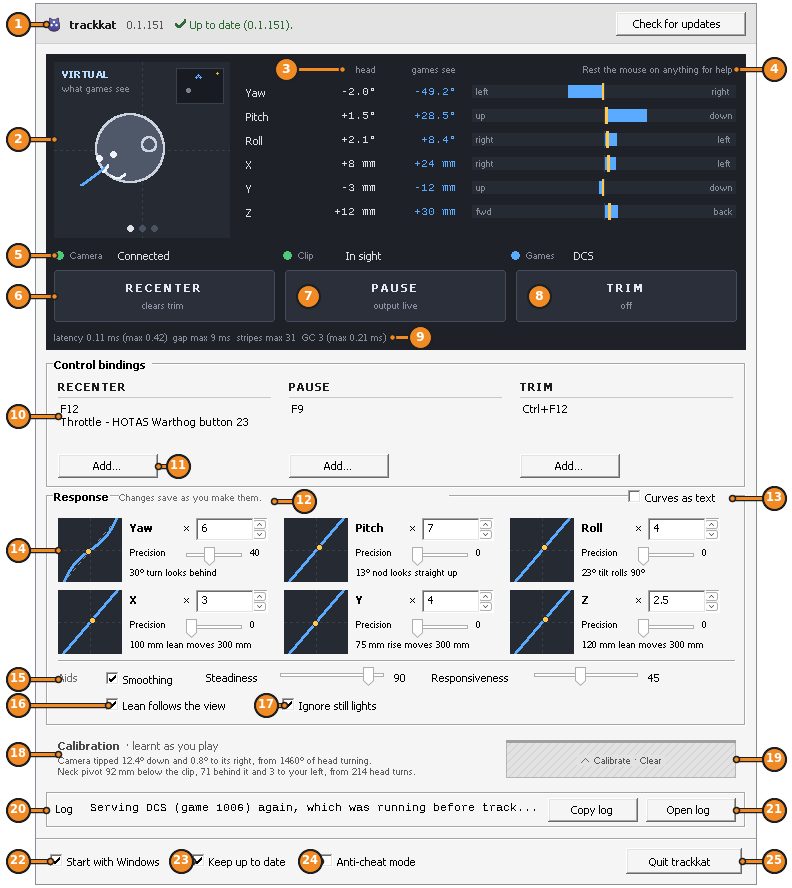
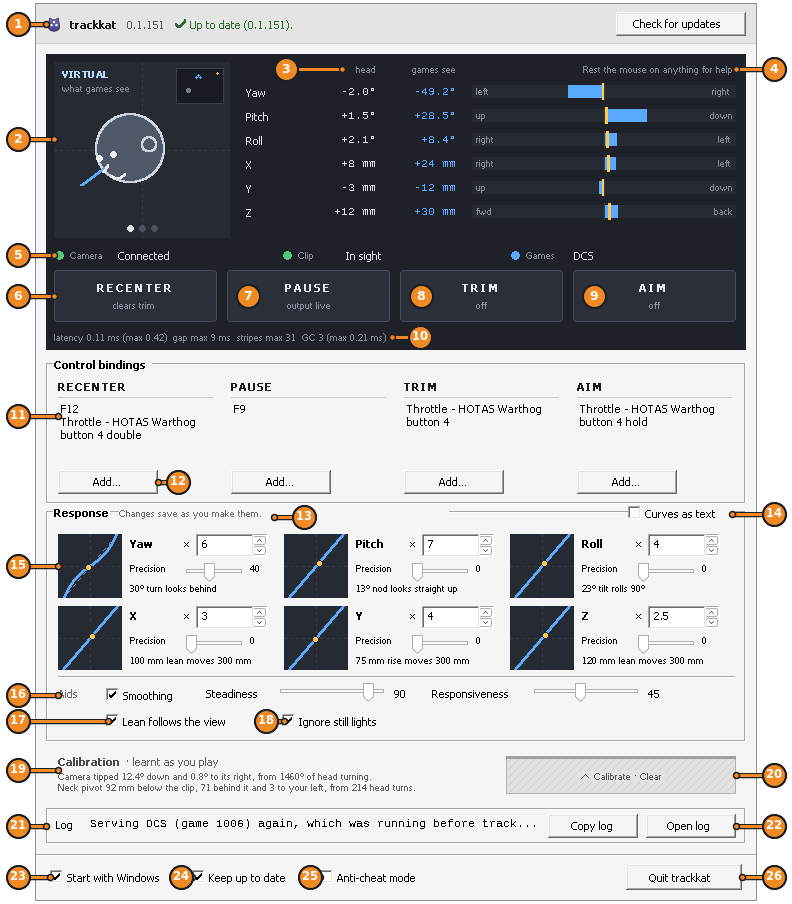
Document aiming, and one button doing several things

diff --git a/README.md b/README.md
@@ -55,35 +55,38 @@ tooltip saying what it does.
 3. Each axis: your head, what games see after the curves, and a bar.
 4. Rest the mouse on anything for help.
 5. Camera, clip and games (by name): green is good.
-6. **Recenter**: where you face now becomes straight ahead; clears trim.
+6. **Recenter**: where you face now becomes straight ahead; clears trim and ends aiming.
 7. **Pause**: games see your head held still until you press it again. Lit amber while paused.
 8. **Trim**: the view now, where it looks and where it has moved to, becomes forward, until you recenter. Lit blue while trimmed, with where.
-9. Latency and other figures, for bug reports.
-10. Keys and buttons for each switch above, one to a line; here a HOTAS button too. Click a list to edit it.
-11. **Add…**: press a key, joystick button, or middle or side mouse button to add it.
-12. Whether the last change was saved: settings are written to `trackkat.conf` as you change them, and apply at once.
-13. **Curves as text**, for curves of any shape.
-14. Response curves: a multiplier, a centre precision, and a plot with your head as a dot.
-15. Smoothing: steadiness against jitter, responsiveness against lag.
-16. **Lean follows the view**, or the screen.
-17. **Ignore still lights**: a lamp or a fire behind you doesn't stop trackkat finding the clip; see [still lights](docs/details.md#still-lights).
-18. What trackkat has learnt about your camera and neck.
-19. A cover: lift it for **Calibrate now** (after moving the camera, turn your head left and right for five seconds) and **Clear calibration** (start afresh).
-20. The log's latest line; **Copy log** for bug reports.
-21. **Open log**: the whole log, and trackkat's version, in a window of its own.
-22. **Start with Windows**, in the tray: the way to use anti-cheat mode without starting trackkat by hand.
-23. **Keep up to date**: an installed trackkat fetches new versions in the background.
-24. **Anti-cheat mode**, for games such as Arma Reforger that refuse trackkat's NPClient.
-25. **Quit trackkat**. Closing the window instead keeps trackkat running in the tray.
+9. **Aim**: the view turns gently from where it is, to lay a gunsight on something by head, until you press it again. Lit blue while aiming.
+10. Latency and other figures, for bug reports.
+11. Keys and buttons for each switch above, one to a line; here a HOTAS button that trims when pressed, aims while held and recenters when pressed twice. Click a list to edit it.
+12. **Add…**: press a key, joystick button, or middle or side mouse button to add it.
+13. Whether the last change was saved: settings are written to `trackkat.conf` as you change them, and apply at once.
+14. **Curves as text**, for curves of any shape.
+15. Response curves: a multiplier, a centre precision, and a plot with your head as a dot.
+16. Smoothing: steadiness against jitter, responsiveness against lag.
+17. **Lean follows the view**, or the screen.
+18. **Ignore still lights**: a lamp or a fire behind you doesn't stop trackkat finding the clip; see [still lights](docs/details.md#still-lights).
+19. What trackkat has learnt about your camera and neck.
+20. A cover: lift it for **Calibrate now** (after moving the camera, turn your head left and right for five seconds) and **Clear calibration** (start afresh).
+21. The log's latest line; **Copy log** for bug reports.
+22. **Open log**: the whole log, and trackkat's version, in a window of its own.
+23. **Start with Windows**, in the tray: the way to use anti-cheat mode without starting trackkat by hand.
+24. **Keep up to date**: an installed trackkat fetches new versions in the background.
+25. **Anti-cheat mode**, for games such as Arma Reforger that refuse trackkat's NPClient.
+26. **Quit trackkat**. Closing the window instead keeps trackkat running in the tray.
 
 ## Keys
 
 - **F12** recenters, from anywhere, as does a game's own recenter binding.
 - **F9** pauses.
-- **Trim** has no key until you give it one.
+- **Trim** and **Aim** have no key until you give them one.
 
 Any of them can be other keys, joystick or HOTAS buttons, or the middle or
-side mouse buttons.
+side mouse buttons. One button can do several things: write `hold` after it
+for what it does when held down, and `double` for when it is pressed twice;
+see [one button, several things](docs/details.md#one-button-several-things).
 
 ## Settings
 
@@ -114,7 +117,7 @@ Either way they apply at once, while you play.
 
   ![trackdemo looking around its cockpit, driven by a scripted pose](docs/trackdemo.gif)
 
-More on installing and updating, trim, calibration, the tray icon and when
+More on installing and updating, trim, aim, calibration, the tray icon and when
 trackkat quits by itself: [docs/details.md](docs/details.md).
 
 ## Building

diff --git a/docs/details.md b/docs/details.md
@@ -119,6 +119,51 @@ In the window, the TRIM switch lights blue while a trim is in place, with
 its yaw and pitch, and PAUSE lights amber while paused. Each switch's keys
 and buttons are listed under it, one to a line, to edit or add to.
 
+## Aim
+
+The curves turn the view much further than your head, so that you can look
+behind you without looking away from the screen: too far to lay a gunsight
+on something by head, as the Apache's gunner does. Aim is for that. From the
+moment you begin aiming, the view turns from where it then is by how far
+your head turns from where it then is, half as far again by default, and
+smoothed more steadily. Look roughly at the target, aim, and finish with
+small, natural movements of your head.
+
+The view doesn't move as aiming begins. When it ends, the view glides back
+over a fifth of a second to where your head would otherwise have it.
+Leaning isn't changed by aiming, and trim applies as ever. Recentering ends
+aiming; pausing holds the view through it.
+
+Bind a key or button to `aim` with `hold` after it to aim just while it is
+held down, or without to turn aiming on, then off. The AIM switch in the
+window does the same, and lights blue while aiming; the log says when it
+begins and ends. Aiming's curves and smoothing are the `aim yaw`, `aim
+pitch`, `aim roll`, `aim smoothing`, `aim steadiness` and `aim
+responsiveness` settings in `trackkat.conf`: a curve takes how far your head
+has turned since aiming began to how far the view turns.
+
+## One button, several things
+
+A key or button can be pressed three ways, and bound to something for each,
+to save buttons on a HOTAS: on its own, a press; with `hold` after it, held
+down for 0.3 seconds; with `double`, pressed twice within 0.3 seconds.
+
+```
+recenter = F12, Throttle - HOTAS Warthog button 4 double
+trim = Throttle - HOTAS Warthog button 4
+aim = Throttle - HOTAS Warthog button 4 hold
+```
+
+In the window, type `hold` or `double` after a key or button in its list.
+
+A key bound only as a press acts the moment it goes down, as it always has.
+One that also has a hold or a double waits until the press can be nothing
+else: until it comes up, if it has a hold, and until 0.3 seconds have gone
+by with no second press, if it has a double. Recenter, pause and trim on a
+hold act once, when the 0.3 seconds are up; aim on a hold lasts until the
+button comes up. A key bound with modifiers, such as `Ctrl+F9 hold`, goes
+down with just those held, and comes up when the key itself does.
+
 ## Calibration
 
 trackkat learns two things from how you move your head, and keeps them in
